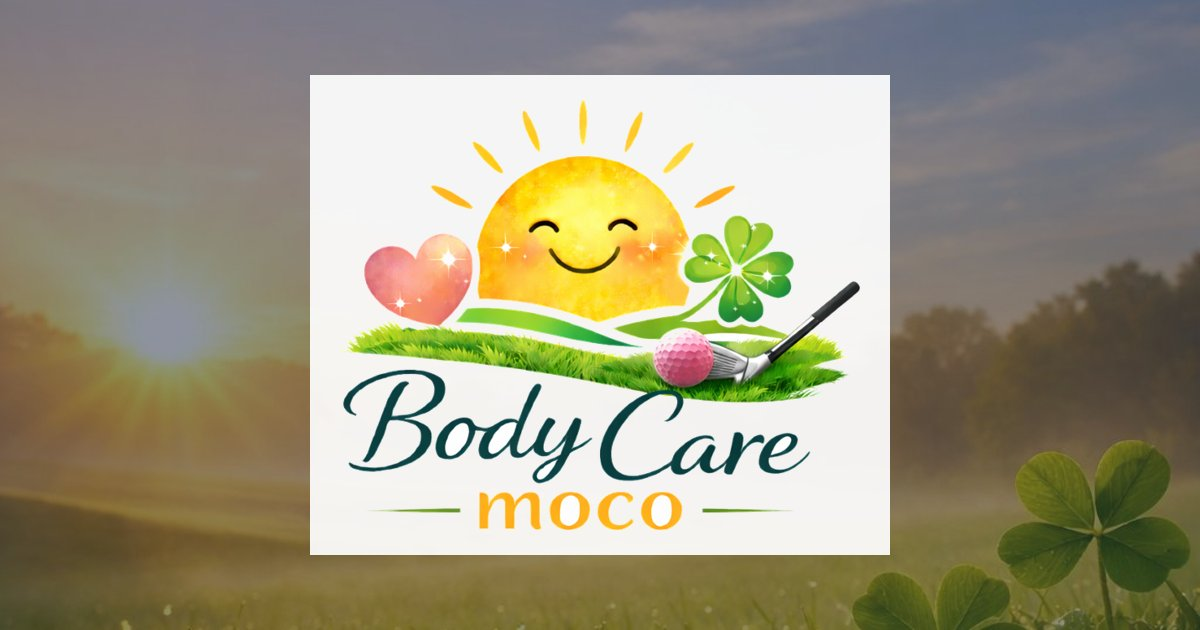
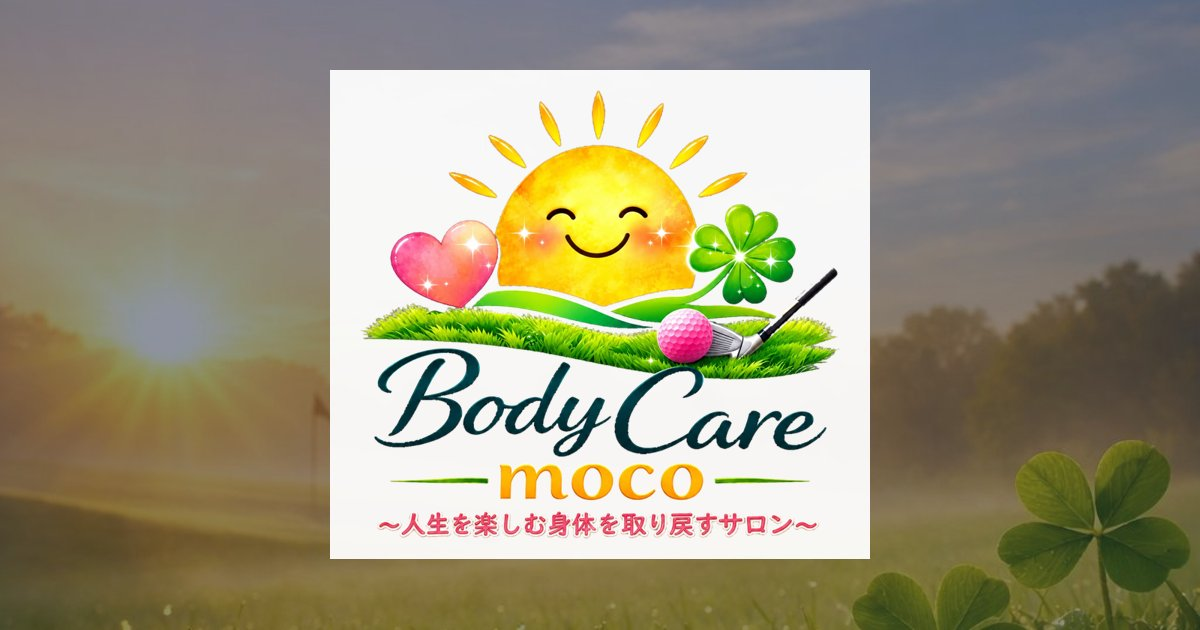
ロゴを副題入りの新しいものにし、画像を軽くする
- 市松模様が描き込まれていた背景を透明にしたロゴに差し替える
- ロゴとメディセルの画像を WebP にして、表示を速くする
- 最初の画面のロゴを大きくする

Changed region(s): [[0.2467, 0.0905, 0.74, 0.9048]]

diff --git a/index.html b/index.html
@@ -12,7 +12,7 @@
 <meta property="og:image" content="https://moco0829-cloud.github.io/bodycaremoco/images/ogp.jpg">
 <meta name="twitter:card" content="summary_large_image">
 <link rel="canonical" href="https://moco0829-cloud.github.io/bodycaremoco/">
-<link rel="icon" href="images/logo.png">
+<link rel="icon" href="images/favicon.png">
 <link rel="preconnect" href="https://fonts.googleapis.com">
 <link rel="preconnect" href="https://fonts.gstatic.com" crossorigin>
 <link href="https://fonts.googleapis.com/css2?family=Cinzel:wght@600;700&family=Zen+Kaku+Gothic+New:wght@500;700;900&display=swap" rel="stylesheet">
@@ -142,7 +142,7 @@
   }
   .hero::before { top: 22%; }
   .hero::after { bottom: 18%; height: 1px; background: linear-gradient(90deg, transparent, var(--blue-light), transparent); }
-  .hero-grid { display: grid; grid-template-columns: 1.35fr 1fr; gap: 40px; align-items: center; position: relative; }
+  .hero-grid { display: grid; grid-template-columns: 1.2fr 1fr; gap: 40px; align-items: center; position: relative; }
   .hero .tag {
     font-family: var(--latin); font-weight: 700; letter-spacing: 0.28em; font-size: 0.82rem;
     color: var(--gold); margin: 0 0 22px;
@@ -166,11 +166,11 @@
   .hero-visual { position: relative; display: flex; align-items: flex-end; justify-content: center; }
   .hero-visual .logo-card {
     background: rgba(255,255,255,.96); border-radius: 18px; padding: 22px 26px;
-    width: min(280px, 70%); box-shadow: 0 24px 60px rgba(0,0,0,.35);
+    flex: none; width: 280px; box-shadow: 0 24px 60px rgba(0,0,0,.35);
     margin-bottom: 40px;
   }
   .hero-visual .machine {
-    width: 170px; margin-left: -28px; position: relative;
+    flex: none; width: 160px; margin-left: -30px; position: relative;
     filter: drop-shadow(0 18px 30px rgba(0,0,0,.45));
   }
   .hero .area { font-size: 0.88rem; color: #b8c4da; margin-top: 22px; }
@@ -400,8 +400,8 @@
         <p class="area">千葉県成田市｜メディセル筋膜ケアのプライベートサロン</p>
       </div>
       <div class="hero-visual">
-        <div class="logo-card"><img src="images/logo.png" alt="Body Care moco" width="640" height="529"></div>
-        <img class="machine" src="images/medicell.png" alt="" width="434" height="800">
+        <div class="logo-card"><img src="images/logo.webp" alt="Body Care moco" width="640" height="599"></div>
+        <img class="machine" src="images/medicell.webp" alt="" width="434" height="800">
       </div>
     </div>
   </div>
@@ -448,7 +448,7 @@
       </div>
     </div>
     <div class="machine-box">
-      <img src="images/medicell.png" alt="本格筋膜ケアマシン Medicell HYBRID" width="434" height="800" loading="lazy">
+      <img src="images/medicell.webp" alt="本格筋膜ケアマシン Medicell HYBRID" width="434" height="800" loading="lazy">
       <div>
         <h3>Medicell HYBRID</h3>
         <p class="sub">本格筋膜ケアマシン、導入しています。</p>
@@ -641,7 +641,7 @@
 <!-- 締め -->
 <section class="closing dark">
   <div class="wrap narrow">
-    <img class="logo" src="images/logo.png" alt="Body Care moco" width="640" height="529" loading="lazy">
+    <img class="logo" src="images/logo.webp" alt="Body Care moco" width="640" height="599" loading="lazy">
     <p class="eyebrow" style="justify-content:center">BODY CARE MOCO</p>
     <h2>身体が軽くなると、<br><em>人生が動き出す。</em></h2>
     <p class="lead" style="margin-bottom:36px">その痛み、ひとりで抱えず、まずはお気軽にご相談ください。</p>
